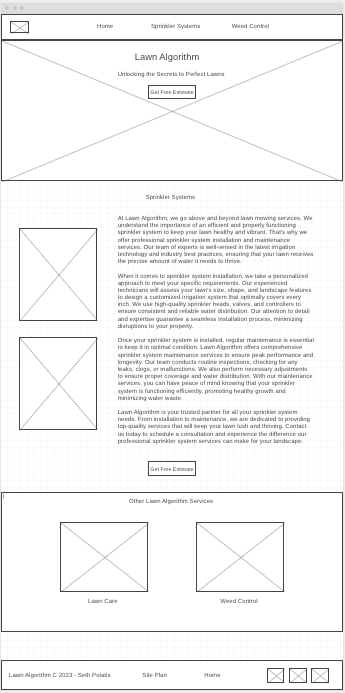
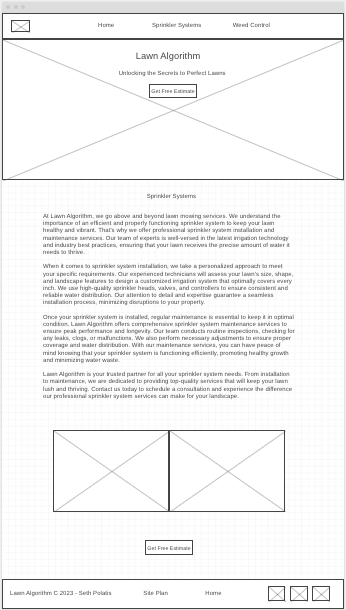
Added CSS for 2nd page

diff --git a/sprinklers.html b/sprinklers.html
@@ -34,20 +34,23 @@
         </div>
 
         <main>
-            <div class="pic1">
-                <img src="images/sprinkler1.jpg" alt="Picture of Sprinklers">
-            </div>
-            
-            <div class="pic2">
-                <img src="images/sprinkler2.jpg" alt="Picture of Sprinklers">
-            </div>
             
             <div class="content">
-                <h1>Sprinkler Systems</h1>
+                <h1 class="gridtitle">Sprinkler Systems</h1>
                 <p>At Lawn Algorithm, we go above and beyond lawn mowing services. We understand the importance of an efficient and properly functioning sprinkler system to keep your lawn healthy and vibrant. That's why we offer professional sprinkler system installation and maintenance services. Our team of experts is well-versed in the latest irrigation technology and industry best practices, ensuring that your lawn receives the precise amount of water it needs to thrive.</p>
                 <p>When it comes to sprinkler system installation, we take a personalized approach to meet your specific requirements. Our experienced technicians will assess your lawn's size, shape, and landscape features to design a customized irrigation system that optimally covers every inch. We use high-quality sprinkler heads, valves, and controllers to ensure consistent and reliable water distribution. Our attention to detail and expertise guarantee a seamless installation process, minimizing disruptions to your property.</p>
                 <p>Once your sprinkler system is installed, regular maintenance is essential to keep it in optimal condition. Lawn Algorithm offers comprehensive sprinkler system maintenance services to ensure peak performance and longevity. Our team conducts routine inspections, checking for any leaks, clogs, or malfunctions. We also perform necessary adjustments to ensure proper coverage and water distribution. With our maintenance services, you can have peace of mind knowing that your sprinkler system is functioning efficiently, promoting healthy growth and minimizing water waste.</p>
                 <p>Lawn Algorithm is your trusted partner for all your sprinkler system needs. From installation to maintenance, we are dedicated to providing top-quality services that will keep your lawn lush and thriving. Contact us today to schedule a consultation and experience the difference our professional sprinkler system services can make for your landscape.</p>
+            </div>
+
+            <div class="second-grid">
+                <div class="pic1">
+                    <img class="sprinkler-1" src="images/sprinkler1.jpg" alt="Picture of Sprinklers">
+                </div>
+                
+                <div class="pic2">
+                    <img class="sprinkler-2" src="images/sprinkler2.jpg" alt="Picture of Sprinklers">
+                </div>
             </div>
 
             <div class="button-box">

diff --git a/styles/style.css b/styles/style.css
@@ -202,3 +202,24 @@ footer p:hover {
 footer .social img {
     padding-top: 15px;
 }
+
+
+/* First subpage CSS */
+.second-grid {
+    display: grid;
+    grid-template-columns: repeat(6, 1fr);
+    margin-bottom: 75px;
+}
+
+.sprinkler-1, .sprinkler-2 {
+    width: 100%;
+    height: 100%;
+}
+
+.pic1 {
+    grid-column: 2/4;
+}
+
+.pic2 {
+    grid-column: 4/6;
+}
